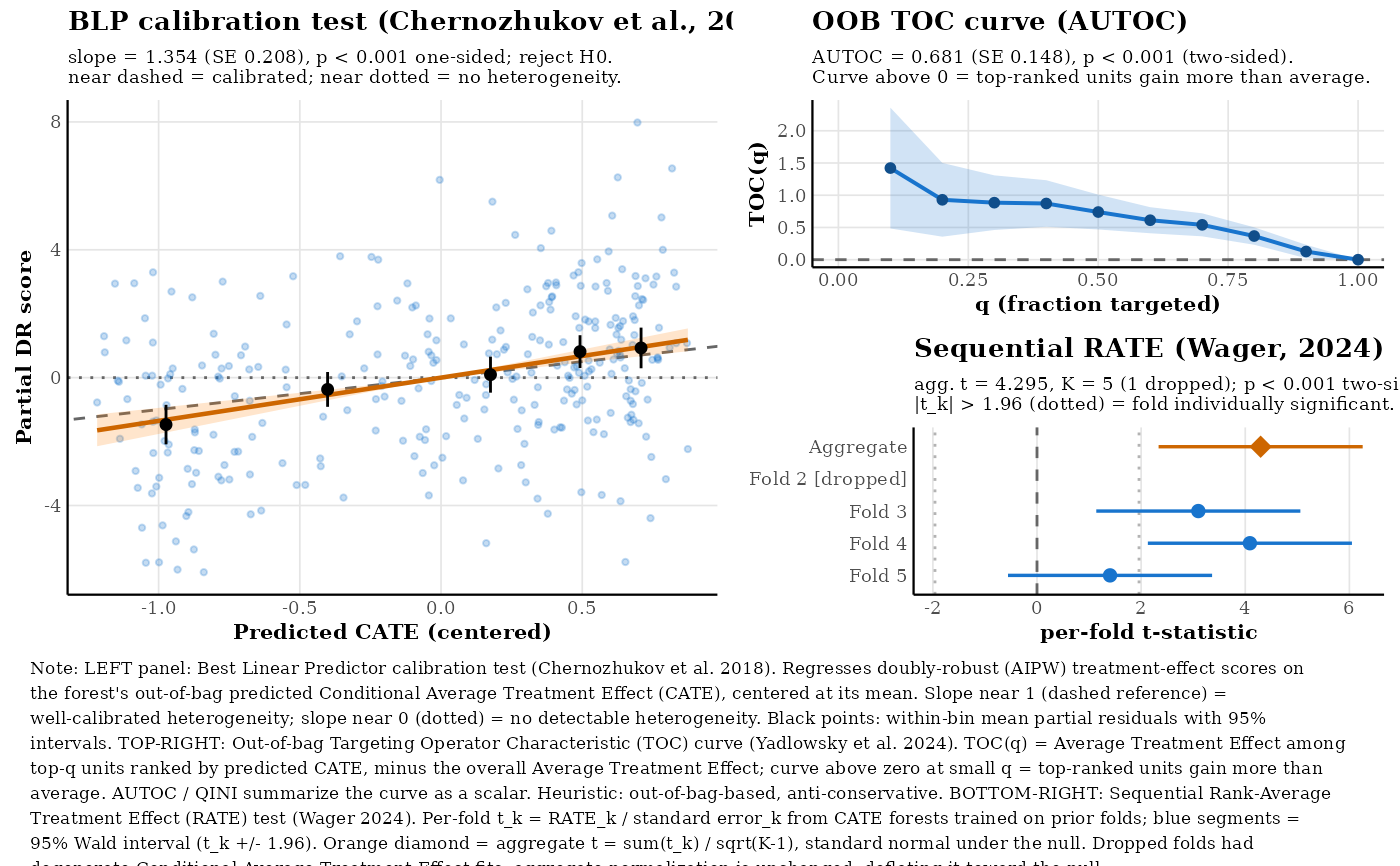
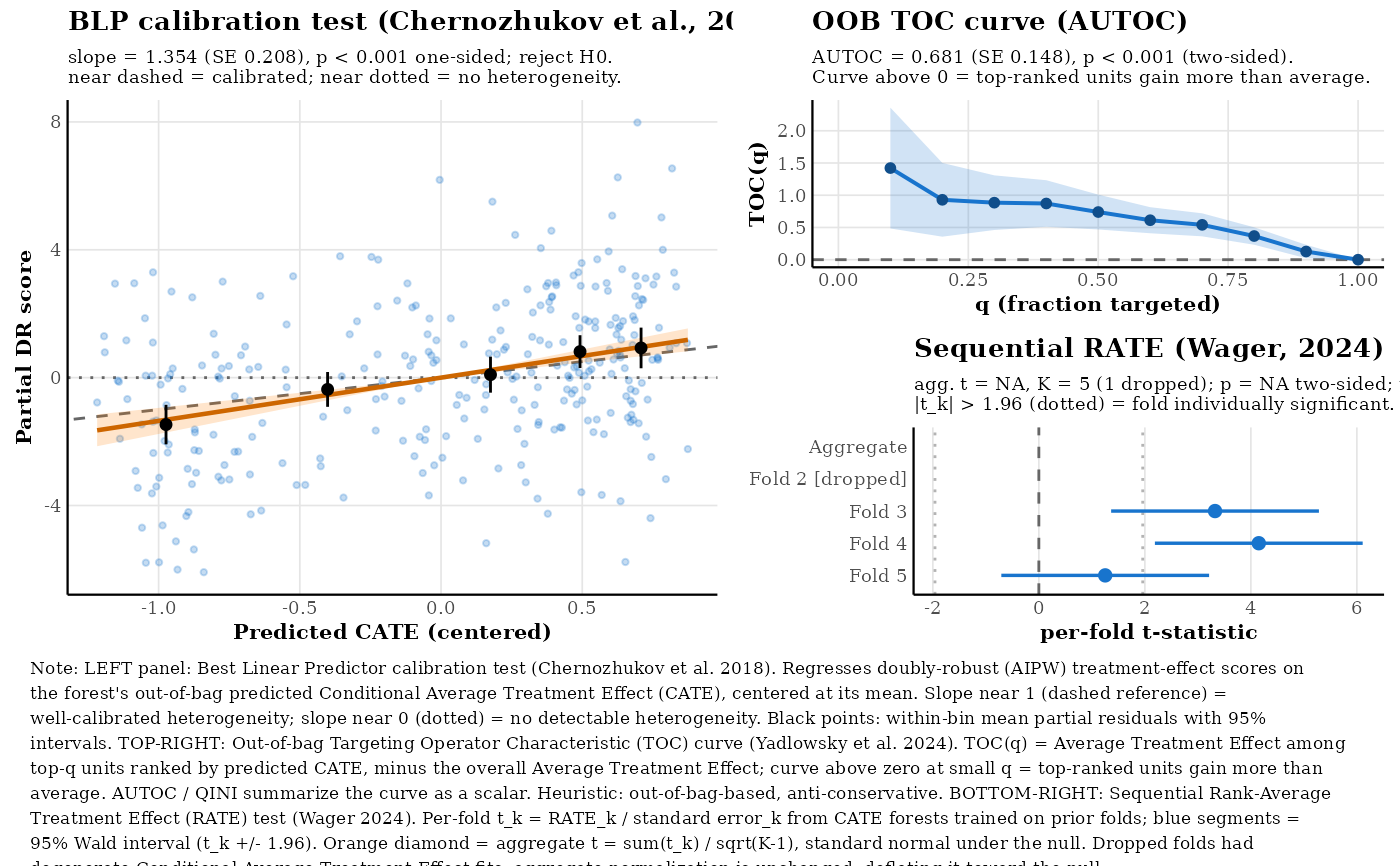
Deploying to gh-pages from @ CetiAlphaFive/UtopiaPlanitia@56f77e86efd583f0f7ad7c81c34e30a3fddfc2cf 🚀

diff --git a/reference/omni_hetero.html b/reference/omni_hetero.html
@@ -1,11 +1,13 @@
 <!DOCTYPE html>
 <!-- Generated by pkgdown: do not edit by hand --><html lang="en"><head><meta http-equiv="Content-Type" content="text/html; charset=UTF-8"><meta charset="utf-8"><meta http-equiv="X-UA-Compatible" content="IE=edge"><meta name="viewport" content="width=device-width, initial-scale=1, shrink-to-fit=no"><title>Omnibus Tests of Heterogeneity — omni_hetero • UtopiaPlanitia</title><script src="../lightswitch.js"></script><script src="../deps/jquery-3.6.0/jquery-3.6.0.min.js"></script><meta name="viewport" content="width=device-width, initial-scale=1, shrink-to-fit=no"><link href="../deps/bootstrap-5.3.1/bootstrap.min.css" rel="stylesheet"><script src="../deps/bootstrap-5.3.1/bootstrap.bundle.min.js"></script><link href="../deps/font-awesome-6.5.2/css/all.min.css" rel="stylesheet"><link href="../deps/font-awesome-6.5.2/css/v4-shims.min.css" rel="stylesheet"><script src="../deps/headroom-0.11.0/headroom.min.js"></script><script src="../deps/headroom-0.11.0/jQuery.headroom.min.js"></script><script src="../deps/bootstrap-toc-1.0.1/bootstrap-toc.min.js"></script><script src="../deps/clipboard.js-2.0.11/clipboard.min.js"></script><script src="../deps/search-1.0.0/autocomplete.jquery.min.js"></script><script src="../deps/search-1.0.0/fuse.min.js"></script><script src="../deps/search-1.0.0/mark.min.js"></script><!-- pkgdown --><script src="../pkgdown.js"></script><link href="../extra.css" rel="stylesheet"><meta property="og:title" content="Omnibus Tests of Heterogeneity — omni_hetero"><meta name="description" content="Performs various heterogeneity tests on a fitted causal forest model.
-Combines the calibration test of Chernozhukov et al. (2018), a naive
-high/low CATE split (Athey and Wager, 2019), the sequential RATE test
-(Wager, 2024), and OOB RATE heuristics into a single summary table."><meta property="og:description" content="Performs various heterogeneity tests on a fitted causal forest model.
-Combines the calibration test of Chernozhukov et al. (2018), a naive
-high/low CATE split (Athey and Wager, 2019), the sequential RATE test
-(Wager, 2024), and OOB RATE heuristics into a single summary table."></head><body>
+Combines the calibration test of Chernozhukov et al. (2018), a cross-fit
+high/low CATE split (Athey and Wager, 2019; cf. grf PR #1502), the
+sequential RATE test (Wager, 2024), and OOB RATE heuristics into a single
+summary table."><meta property="og:description" content="Performs various heterogeneity tests on a fitted causal forest model.
+Combines the calibration test of Chernozhukov et al. (2018), a cross-fit
+high/low CATE split (Athey and Wager, 2019; cf. grf PR #1502), the
+sequential RATE test (Wager, 2024), and OOB RATE heuristics into a single
+summary table."></head><body>
     <a href="#main" class="visually-hidden-focusable">Skip to contents</a>
 
 
@@ -47,9 +49,10 @@ high/low CATE split (Athey and Wager, 2019), the sequential RATE test
 
     <div class="ref-description section level2">
     <p>Performs various heterogeneity tests on a fitted causal forest model.
-Combines the calibration test of Chernozhukov et al. (2018), a naive
-high/low CATE split (Athey and Wager, 2019), the sequential RATE test
-(Wager, 2024), and OOB RATE heuristics into a single summary table.</p>
+Combines the calibration test of Chernozhukov et al. (2018), a cross-fit
+high/low CATE split (Athey and Wager, 2019; cf. grf PR #1502), the
+sequential RATE test (Wager, 2024), and OOB RATE heuristics into a single
+summary table.</p>
     </div>
 
     <div class="section level2">
@@ -67,7 +70,8 @@ high/low CATE split (Athey and Wager, 2019), the sequential RATE test
 
 <dt id="arg-seed">seed<a class="anchor" aria-label="anchor" href="#arg-seed"></a></dt>
 <dd><p>An integer seed for reproducibility. Default is <code>1995</code>.
-Controls the fold assignment in the sequential RATE test.</p></dd>
+Controls the fold assignment in the sequential RATE test and the
+half-sample split in the cross-fit High vs. Low test.</p></dd>
 
 
 <dt id="arg-min-fold-n">min_fold_n<a class="anchor" aria-label="anchor" href="#arg-min-fold-n"></a></dt>
@@ -79,10 +83,12 @@ Calibration test (Chernozhukov et al., 2018) or OOB RATE heuristics
 for small samples. Within the fold loop, any fold whose test-set CATE
 predictions are (near-)constant, whose RATE standard error is zero,
 or whose t-statistic is <code>NaN</code> is dropped from aggregation rather than
-allowed to propagate a silent <code>NaN</code> into the final p-value. If fewer
-than 2 usable folds remain, the Sequential RATE p-value is returned
-as <code>NA_real_</code> with an explanatory <code>reason</code> attribute. Default is
-<code>100</code>.</p></dd>
+allowed to propagate a silent <code>NaN</code> into the final p-value. If ANY
+fold is dropped (i.e. fewer than <code>num.folds - 1</code> t-statistics
+accumulate), the Sequential RATE p-value is returned as <code>NA_real_</code>
+with an explanatory <code>reason</code> attribute, because the
+<code>sqrt(num.folds - 1)</code> aggregation denominator would otherwise
+under-normalize and deflate the t-statistic. Default is <code>100</code>.</p></dd>
 
 </dl></div>
     <div class="section level2">
@@ -105,7 +111,8 @@ row). Small values indicate evidence of treatment effect
 heterogeneity.</p></dd>
 
 <dt>hetero_detected</dt>
-<dd><p>Logical. <code>TRUE</code> if <code>p_value &lt;= 0.05</code>.</p></dd>
+<dd><p>Logical. <code>TRUE</code> if <code>p_value &lt;= 0.05</code>, <code>NA</code>
+when <code>p_value</code> is <code>NA</code>.</p></dd>
 
 
 </dl></div>
@@ -120,9 +127,12 @@ in the battery and should be preferred for formal inference.</p></li>
 robust scores on the forest's CATE predictions. The "differential
 forest prediction" coefficient tests whether the forest captures
 meaningful heterogeneity beyond the ATE.</p></li>
-</ol><p><strong>Heuristic tests</strong> (useful for screening, not formal inference):</p><ol><li><p><strong>High vs. low CATE</strong> (Athey and Wager, 2019): Splits units at the
-median predicted CATE and compares the ATE in each half. A significant
-difference suggests the forest detects real variation.</p></li>
+</ol><p><strong>Heuristic tests</strong> (useful for screening, not formal inference):</p><ol><li><p><strong>High vs. low CATE, cross-fit</strong> (Athey and Wager, 2019): Splits the
+sample in half, predicts CATEs on each half using a forest trained
+on the other half, then median-splits and compares ATE_high vs.
+ATE_low within each held-out half. Cross-fitting avoids the
+winner's curse that contaminates the naive same-data version (see
+grf PR #1502).</p></li>
 <li><p><strong>OOB RATE, two-sided</strong> (heuristic): Uses out-of-bag CATE predictions
 directly. Known to be anti-conservative (~30\<!-- % rejection rate under the -->
 null at nominal 5\<!-- %; see the grf RATE vignette). Useful as a quick -->
@@ -160,21 +170,22 @@ omnibus heterogeneity test.</p></div>
 <span class="r-in"><span><span class="fu">omni_hetero</span><span class="op">(</span><span class="va">cf</span><span class="op">)</span></span></span>
 <span class="r-wrn co"><span class="r-pr">#&gt;</span> <span class="warning">Warning: </span>Sequential RATE may be unstable at this sample size (n = 200, n/num.folds = 40; min_fold_n = 100). Training folds may be too small for the per-fold CATE forest to detect heterogeneity, which can produce degenerate RATE statistics. Consider the Calibration test (Chernozhukov et al., 2018) or the OOB RATE heuristics instead.</span>
 <span class="r-wrn co"><span class="r-pr">#&gt;</span> <span class="warning">Warning: </span>Sequential RATE: dropped 1 of 4 folds due to degenerate fits (near-constant CATE predictions on test fold).</span>
+<span class="r-msg co"><span class="r-pr">#&gt;</span> Sequential RATE: Sequential RATE: 3 of 4 folds usable after degeneracy filtering. Aggregation denominator sqrt(num.folds - 1) would deflate the t-statistic relative to the number of contributing folds. Returning NA p-value. Increase sample size or use the Calibration test for formal inference at this n.</span>
 <span class="r-out co"><span class="r-pr">#&gt;</span> Omnibus Heterogeneity Tests</span>
 <span class="r-out co"><span class="r-pr">#&gt;</span> ---------------------------------------- </span>
 <span class="r-out co"><span class="r-pr">#&gt;</span> </span>
 <span class="r-out co"><span class="r-pr">#&gt;</span> Preferred (valid size)</span>
 <span class="r-out co"><span class="r-pr">#&gt;</span> </span>
 <span class="r-out co"><span class="r-pr">#&gt;</span>  heterogeneity_test                           estimate p_value hetero_detected</span>
-<span class="r-out co"><span class="r-pr">#&gt;</span>  Sequential RATE (Wager, 2024)                —        0.0004  Yes            </span>
+<span class="r-out co"><span class="r-pr">#&gt;</span>  Sequential RATE (Wager, 2024)                —        —       —              </span>
 <span class="r-out co"><span class="r-pr">#&gt;</span>  Calibration Test (Chernozhukov et al., 2018) 1.3212   0.0000  Yes            </span>
 <span class="r-out co"><span class="r-pr">#&gt;</span> </span>
 <span class="r-out co"><span class="r-pr">#&gt;</span> Heuristic (screening only)</span>
 <span class="r-out co"><span class="r-pr">#&gt;</span> </span>
-<span class="r-out co"><span class="r-pr">#&gt;</span>  heterogeneity_test                                 estimate p_value</span>
-<span class="r-out co"><span class="r-pr">#&gt;</span>  High vs. Low CATE (Athey and Wager, 2019)          1.6998   0.0000 </span>
-<span class="r-out co"><span class="r-pr">#&gt;</span>  OOB RATE, two-sided (heuristic, anti-conservative) 0.5296   0.0010 </span>
-<span class="r-out co"><span class="r-pr">#&gt;</span>  OOB RATE, one-sided (heuristic)                    0.5296   0.0005 </span>
+<span class="r-out co"><span class="r-pr">#&gt;</span>  heterogeneity_test                                   estimate p_value</span>
+<span class="r-out co"><span class="r-pr">#&gt;</span>  High vs. Low CATE, cross-fit (Athey and Wager, 2019) 2.0233   0.0000 </span>
+<span class="r-out co"><span class="r-pr">#&gt;</span>  OOB RATE, two-sided (heuristic, anti-conservative)   0.5296   0.0010 </span>
+<span class="r-out co"><span class="r-pr">#&gt;</span>  OOB RATE, one-sided (heuristic)                      0.5296   0.0005 </span>
 <span class="r-out co"><span class="r-pr">#&gt;</span>  hetero_detected</span>
 <span class="r-out co"><span class="r-pr">#&gt;</span>  Yes            </span>
 <span class="r-out co"><span class="r-pr">#&gt;</span>  Yes            </span>

diff --git a/reference/summary.causal_forest.html b/reference/summary.causal_forest.html
@@ -129,6 +129,7 @@ variable importance, <code><a href="plot.causal_forest.html">plot.causal_forest(
 <span class="r-in"><span><span class="fu"><a href="https://rdrr.io/r/base/summary.html" class="external-link">summary</a></span><span class="op">(</span><span class="va">cf</span><span class="op">)</span></span></span>
 <span class="r-wrn co"><span class="r-pr">#&gt;</span> <span class="warning">Warning: </span>Sequential RATE may be unstable at this sample size (n = 200, n/num.folds = 40; min_fold_n = 100). Training folds may be too small for the per-fold CATE forest to detect heterogeneity, which can produce degenerate RATE statistics. Consider the Calibration test (Chernozhukov et al., 2018) or the OOB RATE heuristics instead.</span>
 <span class="r-wrn co"><span class="r-pr">#&gt;</span> <span class="warning">Warning: </span>Sequential RATE: dropped 1 of 4 folds due to degenerate fits (near-constant CATE predictions on test fold).</span>
+<span class="r-msg co"><span class="r-pr">#&gt;</span> Sequential RATE: Sequential RATE: 3 of 4 folds usable after degeneracy filtering. Aggregation denominator sqrt(num.folds - 1) would deflate the t-statistic relative to the number of contributing folds. Returning NA p-value. Increase sample size or use the Calibration test for formal inference at this n.</span>
 <span class="r-out co"><span class="r-pr">#&gt;</span> Average Treatment Effect</span>
 <span class="r-out co"><span class="r-pr">#&gt;</span>   Estimate: -0.0927  SE: 0.1631 </span>
 <span class="r-out co"><span class="r-pr">#&gt;</span> </span>
@@ -147,15 +148,15 @@ variable importance, <code><a href="plot.causal_forest.html">plot.causal_forest(
 <span class="r-out co"><span class="r-pr">#&gt;</span> Preferred (valid size)</span>
 <span class="r-out co"><span class="r-pr">#&gt;</span> </span>
 <span class="r-out co"><span class="r-pr">#&gt;</span>  heterogeneity_test                           estimate p_value hetero_detected</span>
-<span class="r-out co"><span class="r-pr">#&gt;</span>  Sequential RATE (Wager, 2024)                —        0.0004  Yes            </span>
+<span class="r-out co"><span class="r-pr">#&gt;</span>  Sequential RATE (Wager, 2024)                —        —       —              </span>
 <span class="r-out co"><span class="r-pr">#&gt;</span>  Calibration Test (Chernozhukov et al., 2018) 1.3212   0.0000  Yes            </span>
 <span class="r-out co"><span class="r-pr">#&gt;</span> </span>
 <span class="r-out co"><span class="r-pr">#&gt;</span> Heuristic (screening only)</span>
 <span class="r-out co"><span class="r-pr">#&gt;</span> </span>
-<span class="r-out co"><span class="r-pr">#&gt;</span>  heterogeneity_test                                 estimate p_value</span>
-<span class="r-out co"><span class="r-pr">#&gt;</span>  High vs. Low CATE (Athey and Wager, 2019)          1.6998   0.0000 </span>
-<span class="r-out co"><span class="r-pr">#&gt;</span>  OOB RATE, two-sided (heuristic, anti-conservative) 0.5296   0.0010 </span>
-<span class="r-out co"><span class="r-pr">#&gt;</span>  OOB RATE, one-sided (heuristic)                    0.5296   0.0005 </span>
+<span class="r-out co"><span class="r-pr">#&gt;</span>  heterogeneity_test                                   estimate p_value</span>
+<span class="r-out co"><span class="r-pr">#&gt;</span>  High vs. Low CATE, cross-fit (Athey and Wager, 2019) 2.0233   0.0000 </span>
+<span class="r-out co"><span class="r-pr">#&gt;</span>  OOB RATE, two-sided (heuristic, anti-conservative)   0.5296   0.0010 </span>
+<span class="r-out co"><span class="r-pr">#&gt;</span>  OOB RATE, one-sided (heuristic)                      0.5296   0.0005 </span>
 <span class="r-out co"><span class="r-pr">#&gt;</span>  hetero_detected</span>
 <span class="r-out co"><span class="r-pr">#&gt;</span>  Yes            </span>
 <span class="r-out co"><span class="r-pr">#&gt;</span>  Yes            </span>

diff --git a/reference/cf_loco.html b/reference/cf_loco.html
@@ -55,7 +55,7 @@ forests using the debiased method of Benard and Josse (2023).</p>
 <span>  corr.threshold <span class="op">=</span> <span class="fl">0.5</span>,</span>
 <span>  normalize <span class="op">=</span> <span class="cn">FALSE</span>,</span>
 <span>  screen <span class="op">=</span> <span class="cn">FALSE</span>,</span>
-<span>  stabilize <span class="op">=</span> <span class="fl">0.000001</span>,</span>
+<span>  stabilize <span class="op">=</span> <span class="fl">1e-06</span>,</span>
 <span>  seed <span class="op">=</span> <span class="fl">1995</span></span>
 <span><span class="op">)</span></span></code></pre></div>
     </div>

diff --git a/reference/plot.omni_hetero.html b/reference/plot.omni_hetero.html
@@ -153,6 +153,7 @@ Average Treatment Effects. JASA, forthcoming.</p>
 <span class="r-in"><span><span class="va">oh</span> <span class="op">&lt;-</span> <span class="fu"><a href="omni_hetero.html">omni_hetero</a></span><span class="op">(</span><span class="va">cf</span><span class="op">)</span></span></span>
 <span class="r-wrn co"><span class="r-pr">#&gt;</span> <span class="warning">Warning: </span>Sequential RATE may be unstable at this sample size (n = 300, n/num.folds = 60; min_fold_n = 100). Training folds may be too small for the per-fold CATE forest to detect heterogeneity, which can produce degenerate RATE statistics. Consider the Calibration test (Chernozhukov et al., 2018) or the OOB RATE heuristics instead.</span>
 <span class="r-wrn co"><span class="r-pr">#&gt;</span> <span class="warning">Warning: </span>Sequential RATE: dropped 1 of 4 folds due to degenerate fits (near-constant CATE predictions on test fold).</span>
+<span class="r-msg co"><span class="r-pr">#&gt;</span> Sequential RATE: Sequential RATE: 3 of 4 folds usable after degeneracy filtering. Aggregation denominator sqrt(num.folds - 1) would deflate the t-statistic relative to the number of contributing folds. Returning NA p-value. Increase sample size or use the Calibration test for formal inference at this n.</span>
 <span class="r-in"><span><span class="fu"><a href="https://rdrr.io/r/graphics/plot.default.html" class="external-link">plot</a></span><span class="op">(</span><span class="va">oh</span><span class="op">)</span>                  <span class="co"># BLP left, TOC + fold forest stacked right</span></span></span>
 <span class="r-plt img"><img src="plot.omni_hetero-1.png" alt="" width="700" height="433"></span>
 <span class="r-in"><span><span class="fu"><a href="https://rdrr.io/r/graphics/plot.default.html" class="external-link">plot</a></span><span class="op">(</span><span class="va">oh</span>, which <span class="op">=</span> <span class="st">"blp"</span><span class="op">)</span></span></span>

diff --git a/reference/omni_hetero.md b/reference/omni_hetero.md
@@ -1,9 +1,10 @@
 # Omnibus Tests of Heterogeneity
 
 Performs various heterogeneity tests on a fitted causal forest model.
-Combines the calibration test of Chernozhukov et al. (2018), a naive
-high/low CATE split (Athey and Wager, 2019), the sequential RATE test
-(Wager, 2024), and OOB RATE heuristics into a single summary table.
+Combines the calibration test of Chernozhukov et al. (2018), a cross-fit
+high/low CATE split (Athey and Wager, 2019; cf. grf PR \#1502), the
+sequential RATE test (Wager, 2024), and OOB RATE heuristics into a
+single summary table.
 
 ## Usage
 
@@ -20,7 +21,8 @@ omni_hetero(c.forest, seed = 1995, min_fold_n = 100)
 - seed:
 
   An integer seed for reproducibility. Default is `1995`. Controls the
-  fold assignment in the sequential RATE test.
+  fold assignment in the sequential RATE test and the half-sample split
+  in the cross-fit High vs. Low test.
 
 - min_fold_n:
 
@@ -32,9 +34,12 @@ omni_hetero(c.forest, seed = 1995, min_fold_n = 100)
   for small samples. Within the fold loop, any fold whose test-set CATE
   predictions are (near-)constant, whose RATE standard error is zero, or
   whose t-statistic is `NaN` is dropped from aggregation rather than
-  allowed to propagate a silent `NaN` into the final p-value. If fewer
-  than 2 usable folds remain, the Sequential RATE p-value is returned as
-  `NA_real_` with an explanatory `reason` attribute. Default is `100`.
+  allowed to propagate a silent `NaN` into the final p-value. If ANY
+  fold is dropped (i.e. fewer than `num.folds - 1` t-statistics
+  accumulate), the Sequential RATE p-value is returned as `NA_real_`
+  with an explanatory `reason` attribute, because the
+  `sqrt(num.folds - 1)` aggregation denominator would otherwise
+  under-normalize and deflate the t-statistic. Default is `100`.
 
 ## Value
 
@@ -62,7 +67,7 @@ and the following columns:
 
 - hetero_detected:
 
-  Logical. `TRUE` if `p_value <= 0.05`.
+  Logical. `TRUE` if `p_value <= 0.05`, `NA` when `p_value` is `NA`.
 
 ## Details
 
@@ -82,9 +87,12 @@ grouped into **Preferred** (valid size) and **Heuristic** categories:
 
 **Heuristic tests** (useful for screening, not formal inference):
 
-1.  **High vs. low CATE** (Athey and Wager, 2019): Splits units at the
-    median predicted CATE and compares the ATE in each half. A
-    significant difference suggests the forest detects real variation.
+1.  **High vs. low CATE, cross-fit** (Athey and Wager, 2019): Splits the
+    sample in half, predicts CATEs on each half using a forest trained
+    on the other half, then median-splits and compares ATE_high vs.
+    ATE_low within each held-out half. Cross-fitting avoids the winner's
+    curse that contaminates the naive same-data version (see grf PR
+    \#1502).
 
 2.  **OOB RATE, two-sided** (heuristic): Uses out-of-bag CATE
     predictions directly. Known to be anti-conservative (~30\\ null at
@@ -127,21 +135,22 @@ cf <- causal_forest(X, Y, W, num.trees = 100)
 omni_hetero(cf)
 #> Warning: Sequential RATE may be unstable at this sample size (n = 200, n/num.folds = 40; min_fold_n = 100). Training folds may be too small for the per-fold CATE forest to detect heterogeneity, which can produce degenerate RATE statistics. Consider the Calibration test (Chernozhukov et al., 2018) or the OOB RATE heuristics instead.
 #> Warning: Sequential RATE: dropped 1 of 4 folds due to degenerate fits (near-constant CATE predictions on test fold).
+#> Sequential RATE: Sequential RATE: 3 of 4 folds usable after degeneracy filtering. Aggregation denominator sqrt(num.folds - 1) would deflate the t-statistic relative to the number of contributing folds. Returning NA p-value. Increase sample size or use the Calibration test for formal inference at this n.
 #> Omnibus Heterogeneity Tests
 #> ---------------------------------------- 
 #> 
 #> Preferred (valid size)
 #> 
 #>  heterogeneity_test                           estimate p_value hetero_detected
-#>  Sequential RATE (Wager, 2024)                —        0.0004  Yes            
+#>  Sequential RATE (Wager, 2024)                —        —       —              
 #>  Calibration Test (Chernozhukov et al., 2018) 1.3212   0.0000  Yes            
 #> 
 #> Heuristic (screening only)
 #> 
-#>  heterogeneity_test                                 estimate p_value
-#>  High vs. Low CATE (Athey and Wager, 2019)          1.6998   0.0000 
-#>  OOB RATE, two-sided (heuristic, anti-conservative) 0.5296   0.0010 
-#>  OOB RATE, one-sided (heuristic)                    0.5296   0.0005 
+#>  heterogeneity_test                                   estimate p_value
+#>  High vs. Low CATE, cross-fit (Athey and Wager, 2019) 2.0233   0.0000 
+#>  OOB RATE, two-sided (heuristic, anti-conservative)   0.5296   0.0010 
+#>  OOB RATE, one-sided (heuristic)                      0.5296   0.0005 
 #>  hetero_detected
 #>  Yes            
 #>  Yes            

diff --git a/reference/summary.causal_forest.md b/reference/summary.causal_forest.md
@@ -105,6 +105,7 @@ cf <- causal_forest(X, Y, W, num.trees = 100)
 summary(cf)
 #> Warning: Sequential RATE may be unstable at this sample size (n = 200, n/num.folds = 40; min_fold_n = 100). Training folds may be too small for the per-fold CATE forest to detect heterogeneity, which can produce degenerate RATE statistics. Consider the Calibration test (Chernozhukov et al., 2018) or the OOB RATE heuristics instead.
 #> Warning: Sequential RATE: dropped 1 of 4 folds due to degenerate fits (near-constant CATE predictions on test fold).
+#> Sequential RATE: Sequential RATE: 3 of 4 folds usable after degeneracy filtering. Aggregation denominator sqrt(num.folds - 1) would deflate the t-statistic relative to the number of contributing folds. Returning NA p-value. Increase sample size or use the Calibration test for formal inference at this n.
 #> Average Treatment Effect
 #>   Estimate: -0.0927  SE: 0.1631 
 #> 
@@ -123,15 +124,15 @@ summary(cf)
 #> Preferred (valid size)
 #> 
 #>  heterogeneity_test                           estimate p_value hetero_detected
-#>  Sequential RATE (Wager, 2024)                —        0.0004  Yes            
+#>  Sequential RATE (Wager, 2024)                —        —       —              
 #>  Calibration Test (Chernozhukov et al., 2018) 1.3212   0.0000  Yes            
 #> 
 #> Heuristic (screening only)
 #> 
-#>  heterogeneity_test                                 estimate p_value
-#>  High vs. Low CATE (Athey and Wager, 2019)          1.6998   0.0000 
-#>  OOB RATE, two-sided (heuristic, anti-conservative) 0.5296   0.0010 
-#>  OOB RATE, one-sided (heuristic)                    0.5296   0.0005 
+#>  heterogeneity_test                                   estimate p_value
+#>  High vs. Low CATE, cross-fit (Athey and Wager, 2019) 2.0233   0.0000 
+#>  OOB RATE, two-sided (heuristic, anti-conservative)   0.5296   0.0010 
+#>  OOB RATE, one-sided (heuristic)                      0.5296   0.0005 
 #>  hetero_detected
 #>  Yes            
 #>  Yes            

diff --git a/reference/cf_loco.md b/reference/cf_loco.md
@@ -13,7 +13,7 @@ cf_loco(
   corr.threshold = 0.5,
   normalize = FALSE,
   screen = FALSE,
-  stabilize = 0.000001,
+  stabilize = 1e-06,
   seed = 1995
 )
 ```

diff --git a/reference/plot.omni_hetero.md b/reference/plot.omni_hetero.md
@@ -110,6 +110,7 @@ cf <- causal_forest(X, Y, W, num.trees = 200)
 oh <- omni_hetero(cf)
 #> Warning: Sequential RATE may be unstable at this sample size (n = 300, n/num.folds = 60; min_fold_n = 100). Training folds may be too small for the per-fold CATE forest to detect heterogeneity, which can produce degenerate RATE statistics. Consider the Calibration test (Chernozhukov et al., 2018) or the OOB RATE heuristics instead.
 #> Warning: Sequential RATE: dropped 1 of 4 folds due to degenerate fits (near-constant CATE predictions on test fold).
+#> Sequential RATE: Sequential RATE: 3 of 4 folds usable after degeneracy filtering. Aggregation denominator sqrt(num.folds - 1) would deflate the t-statistic relative to the number of contributing folds. Returning NA p-value. Increase sample size or use the Calibration test for formal inference at this n.
 plot(oh)                  # BLP left, TOC + fold forest stacked right
 
 plot(oh, which = "blp")